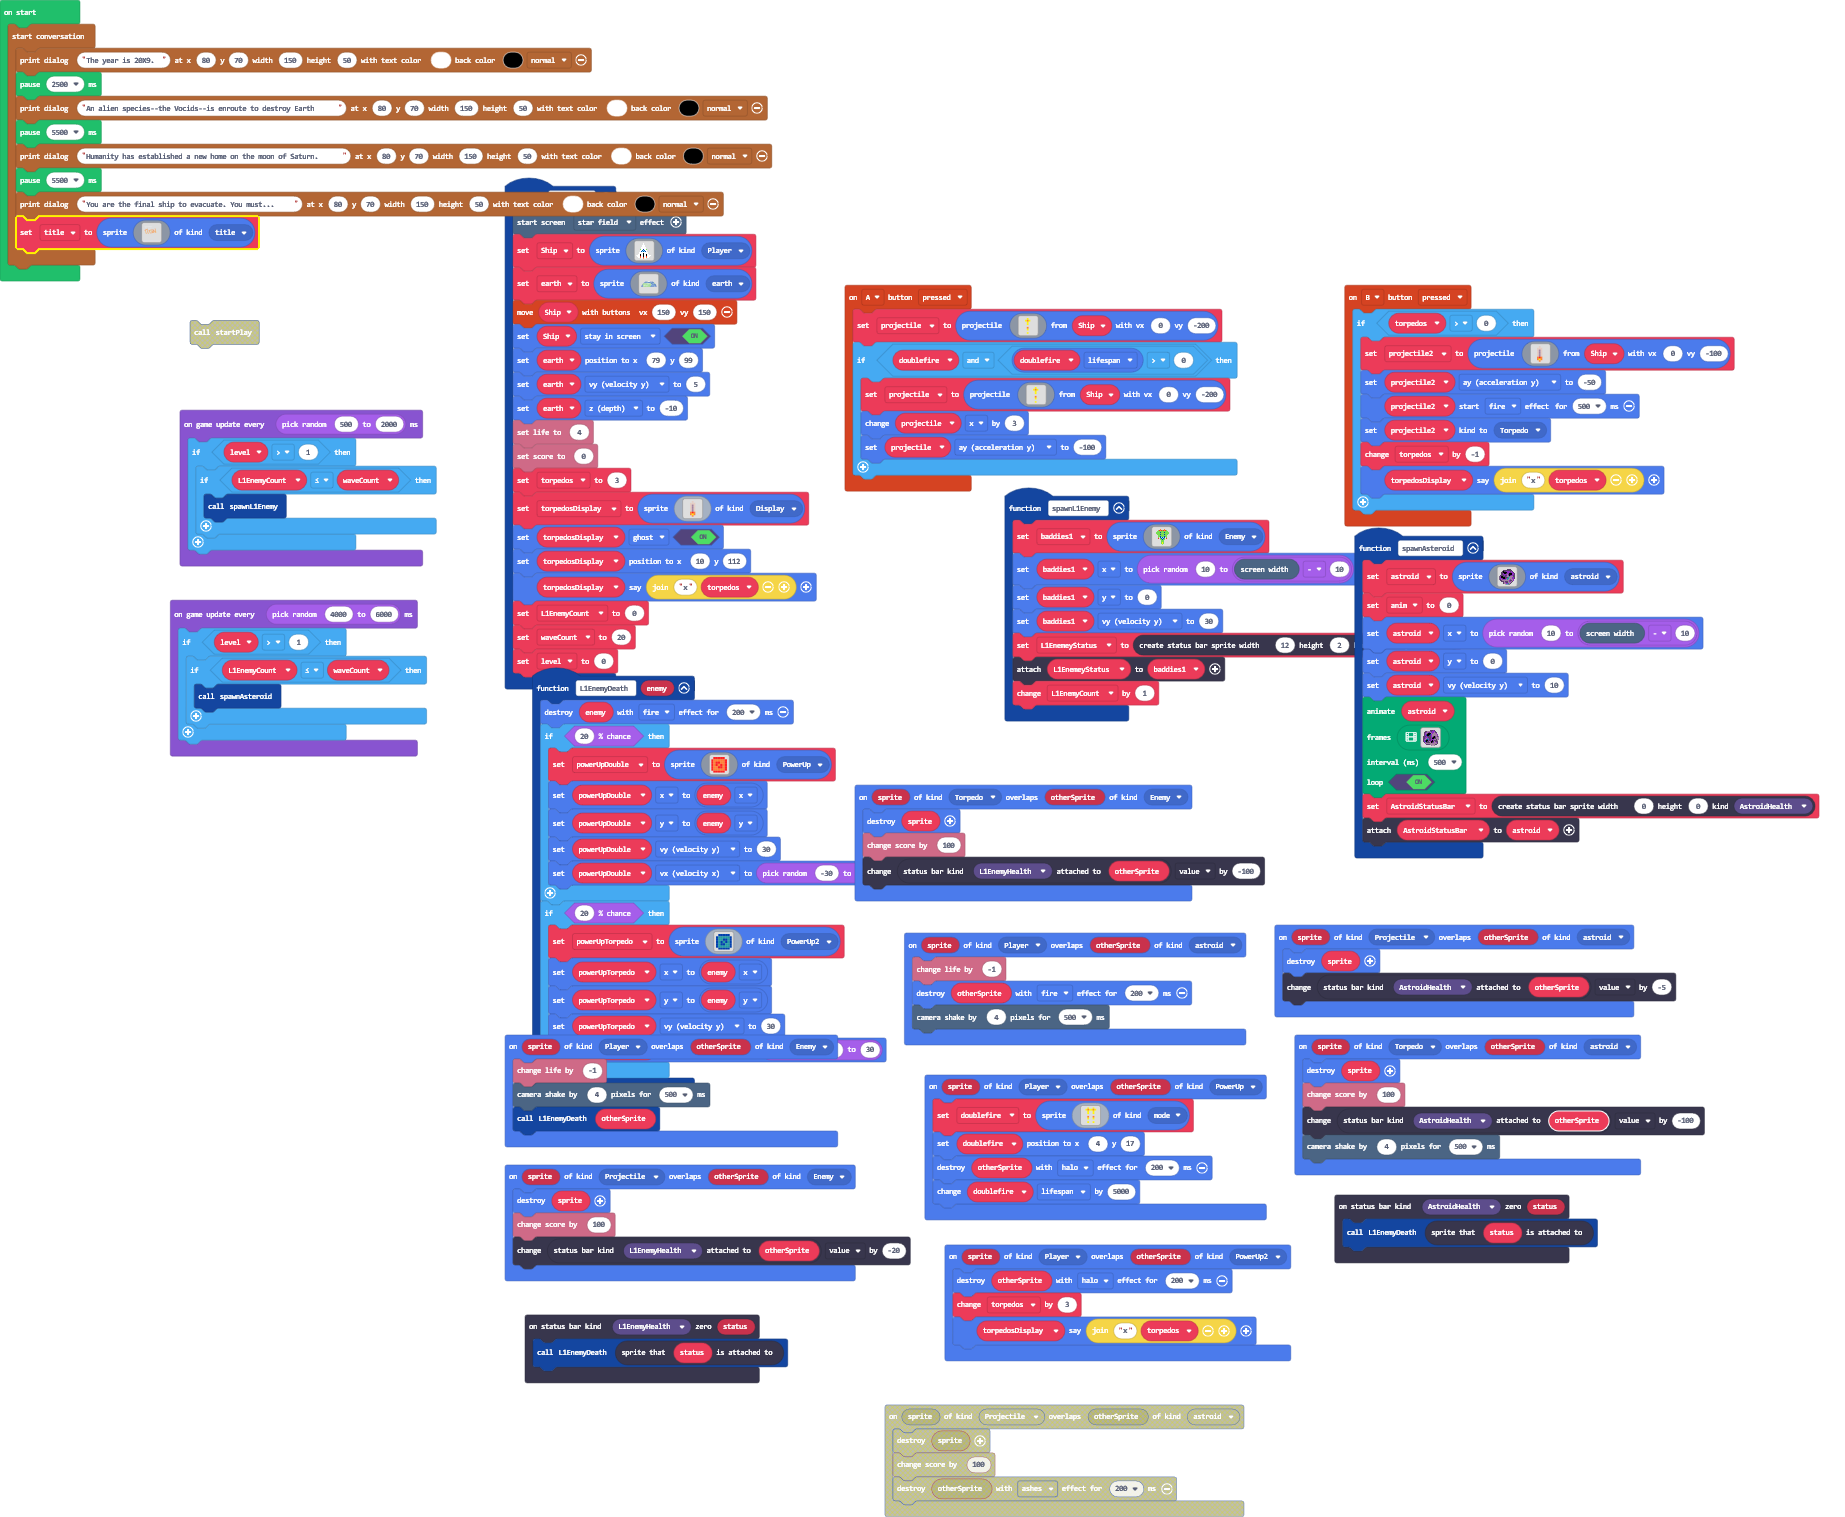
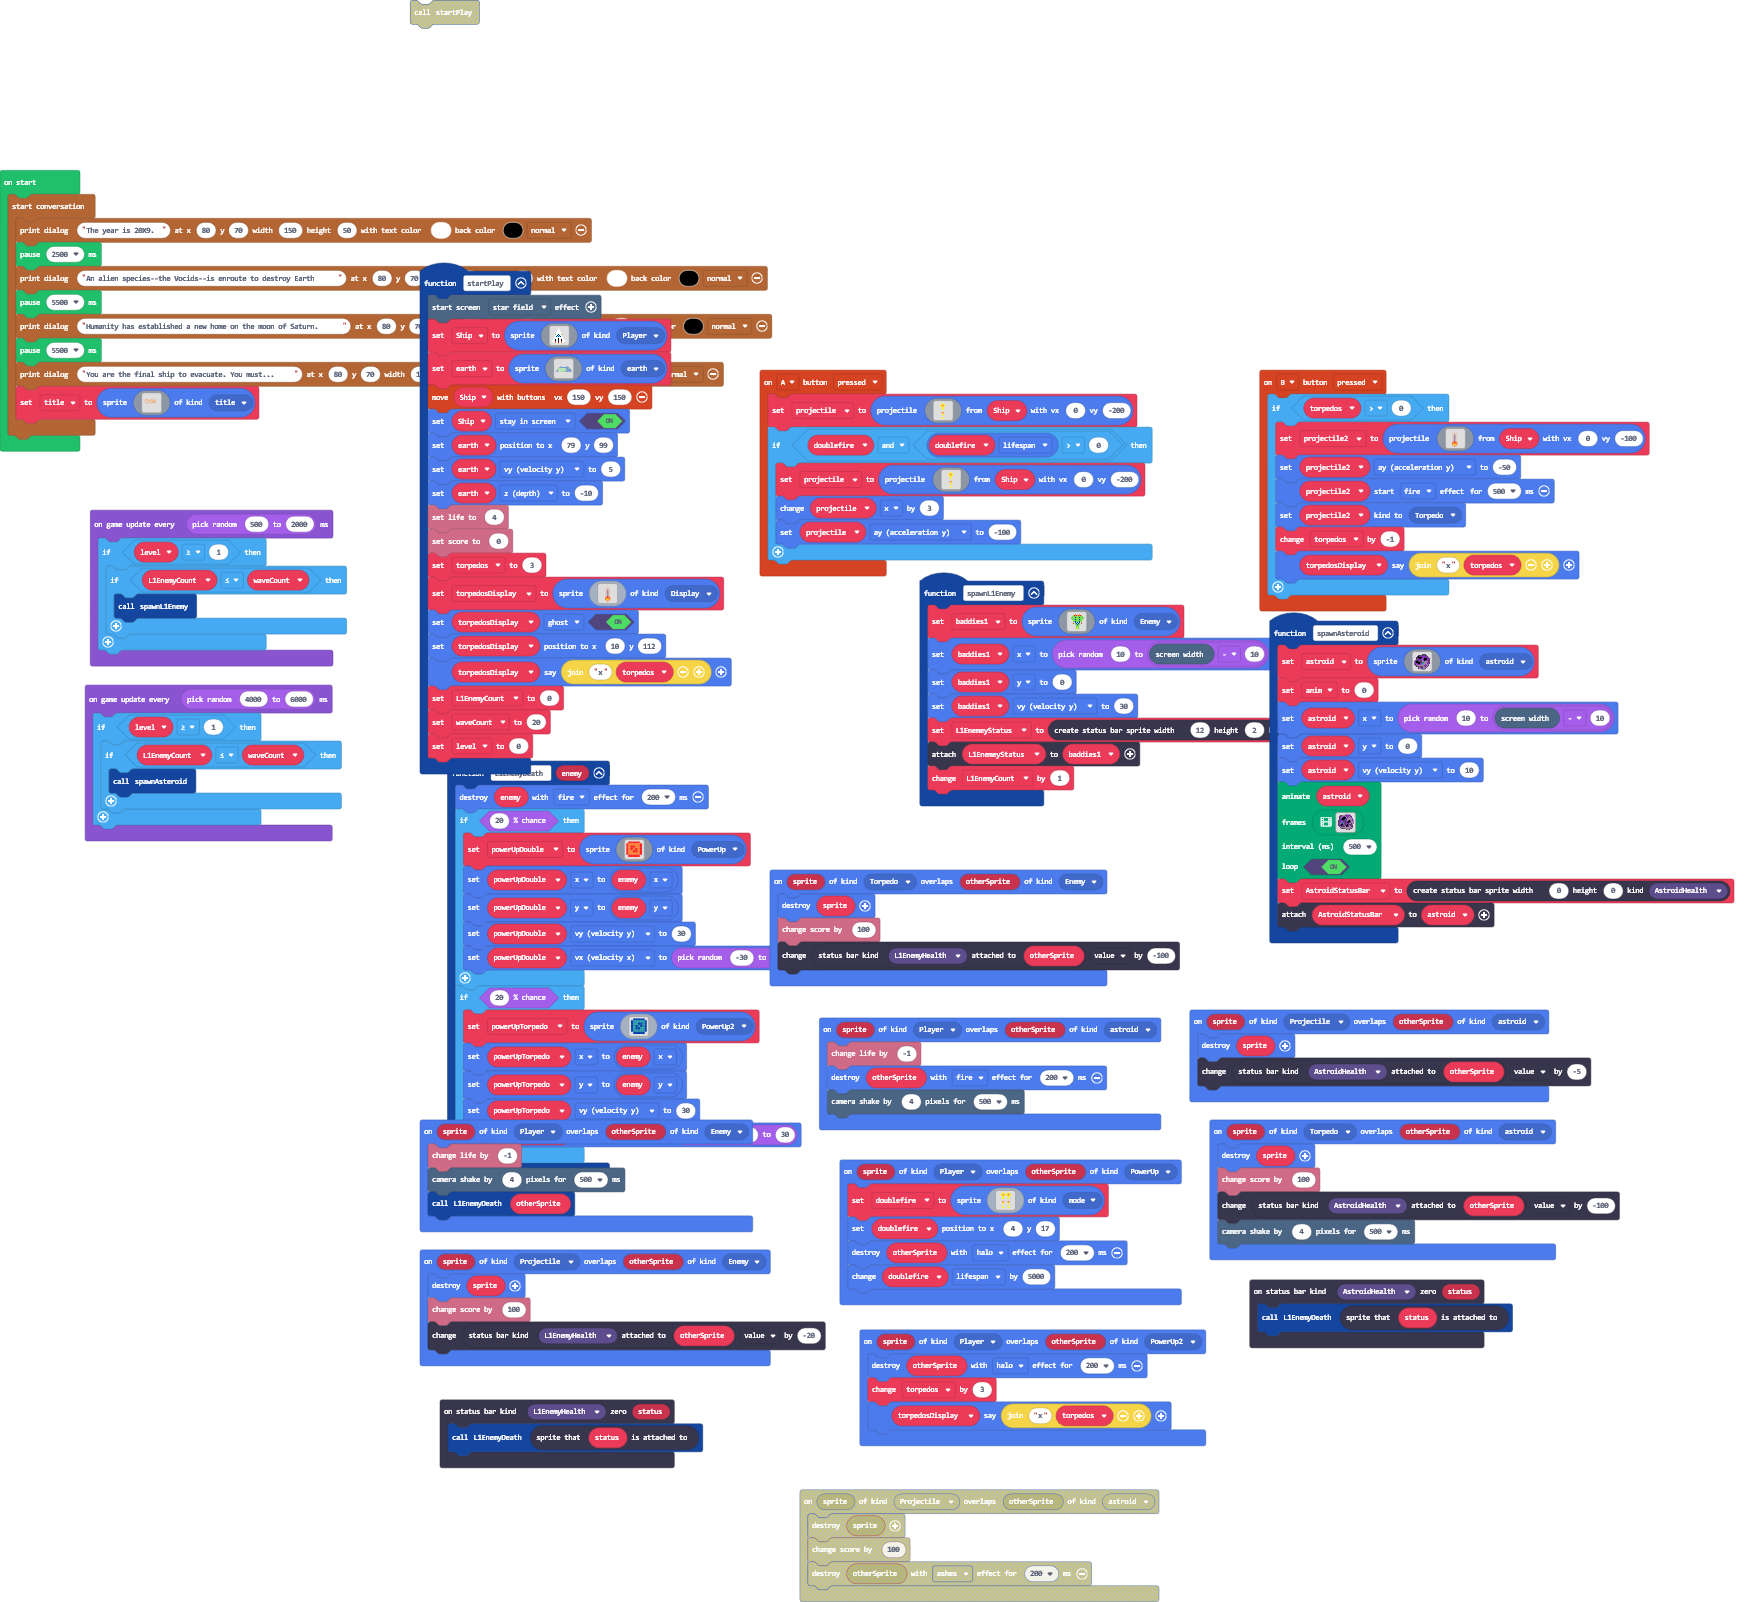
fixed issue with level detection

diff --git a/main.ts b/main.ts
@@ -547,14 +547,14 @@ story.startConveration(function () {
         `, SpriteKind.title)
 })
 game.onUpdateInterval(randint(4000, 6000), function () {
-    if (level > 1) {
+    if (level >= 1) {
         if (L1EnemyCount <= waveCount) {
             spawnAsteroid()
         }
     }
 })
 game.onUpdateInterval(randint(500, 2000), function () {
-    if (level > 1) {
+    if (level >= 1) {
         if (L1EnemyCount <= waveCount) {
             spawnL1Enemy()
         }
